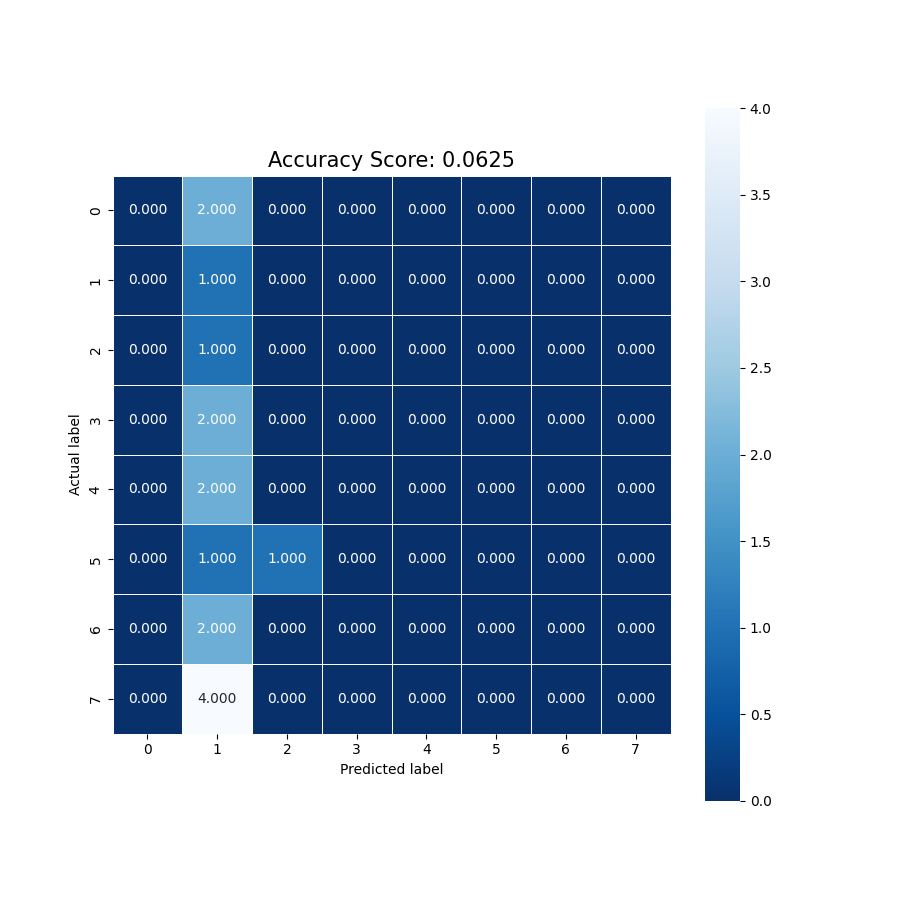
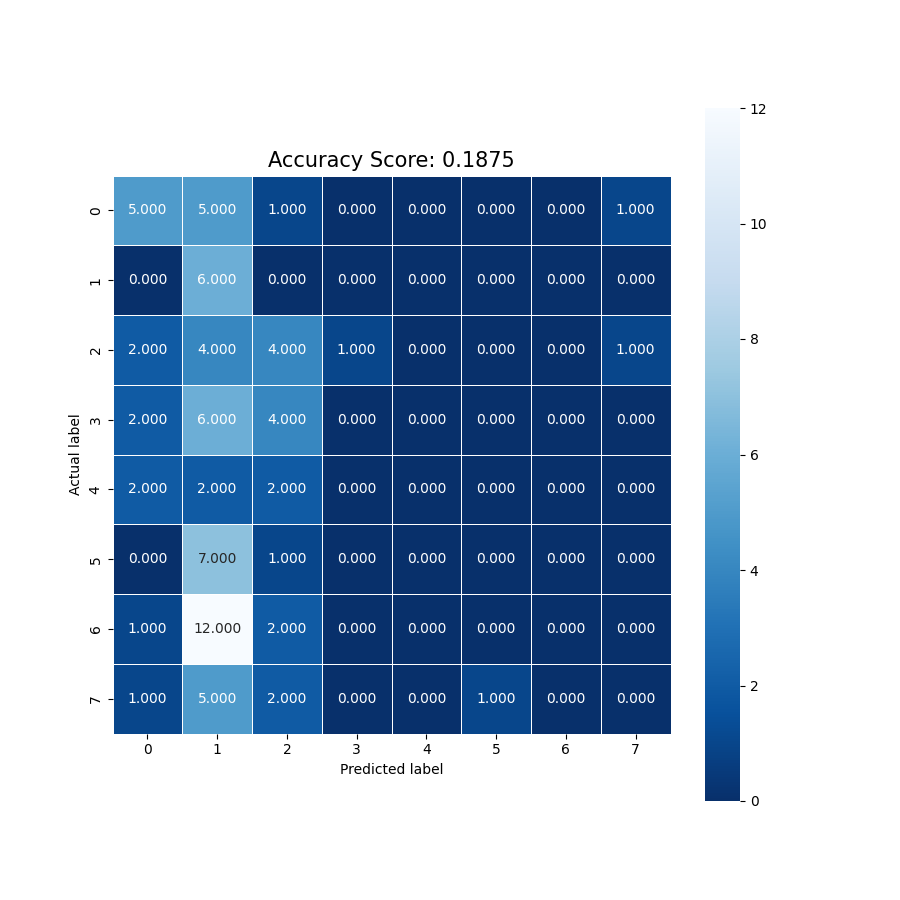
Include 0.5 % in addition to the 0.1

diff --git a/model/HWEmoji.py b/model/HWEmoji.py
@@ -29,7 +29,26 @@ def prepare_data_set():
 
 def augment_sample(sample):
     sample_flipped_horizontally = np.fliplr(sample)
-    return [sample_flipped_horizontally]
+    sample_size = 400
+    sample_shifted_right_10_percent = np.roll(sample, int(sample_size * 0.1))
+    sample_shifted_right_5_percent = np.roll(sample, int(sample_size * 0.05))
+    sample_shifted_left_10_percent = np.roll(sample, int(sample_size * -0.1))
+    sample_shifted_left_5_percent = np.roll(sample, int(sample_size * -0.05))
+    sample_shifted_up_10_percent = np.roll(sample, int(sample_size * -0.1), axis=0)
+    sample_shifted_up_5_percent = np.roll(sample, int(sample_size * -0.05), axis=0)
+    sample_shifted_down_10_percent = np.roll(sample, int(sample_size * 0.1), axis=0)
+    sample_shifted_down_5_percent = np.roll(sample, int(sample_size * 0.05), axis=0)
+    return [
+        sample_flipped_horizontally, 
+        sample_shifted_right_10_percent,
+        sample_shifted_right_5_percent,
+        sample_shifted_left_10_percent,
+        sample_shifted_left_5_percent,
+        sample_shifted_up_10_percent,
+        sample_shifted_up_5_percent,
+        sample_shifted_down_10_percent,
+        sample_shifted_down_5_percent
+    ]
 
 def read_file_content(path):
     file = open(path, "r")
@@ -107,7 +126,7 @@ def main():
     print("😃 Initializing HWEmoji training script")
     print("🤓 Preparing trainig data using the files from /dataset")
     data, labels = prepare_data_set()
-    #show_some_data_examples(data, labels, 10)
+    # show_some_data_examples(data, labels, 10)
     model, data_train, data_test, labels_train, labels_test = train_model(data, labels)
     print(f'💪 Model trained with {len(data_train)} samples. Evaluating model accuracy')
     evaluate_model_accuracy(model, data_train, data_test, labels_train, labels_test)
